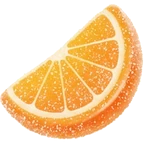
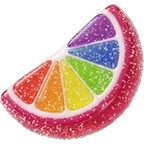
v368: Candy Climb retired (it doubled the Sweet Pass; unclaimed prizes are given once), Sweet Pass on the map and opening by itself after a win that reaches a step; colourful marmalade slice candy

diff --git a/sw.js b/sw.js
@@ -1,5 +1,5 @@
 /* Candoku service worker: cache the app shell so it works offline. Bump VERSION on each release. */
-const VERSION = 'candoku-v367';
+const VERSION = 'candoku-v368';
 const FILES = ['./', 'index.html', 'style.css', 'engine.js', 'hints.js', 'boardworker.js', 'seeds.js', 'sound.js', 'music.js', 'voice.js', 'app.js', 'manifest.webmanifest', 'icon-192.png', 'icon-180.png', 'icon-192.png', 'icon-512.png', 'icon-maskable-512.png', 'icons/lollipop.png', 'icons/candy.png', 'icons/chocolate_bar.png', 'icons/doughnut.png', 'icons/cupcake.png', 'icons/cookie.png', 'icons/cherries.png', 'icons/soft_ice_cream.png', 'icons/shortcake.png', 'icons/dango.png', 'art/bg_0.jpg', 'art/bg_1.jpg', 'art/bg_2.jpg', 'art/bg_3.jpg', 'art/bg_4.jpg', 'art/bg_5.jpg', 'art/bg_6.jpg', 'art/bg_7.jpg', 'art/bg_8.jpg', 'art/ic_undo.webp', 'art/ic_hint.webp', 'art/ic_wand.webp', 'art/ic_maybe.webp', 'art/ic_restart.webp', 'art/ic_coin.webp', 'art/ic_chest.webp', 'art/ic_wheel.webp', 'art/ic_games.webp', 'art/nav_gifts.webp', 'art/nav_quests.webp', 'art/nav_home.webp', 'art/nav_shop.webp', 'art/nav_rank.webp', 'art/ic_heart.webp', 'art/ic_heart_off.webp', 'art/cd_lollipop.webp', 'art/cd_candy.webp', 'art/cd_chocolate_bar.webp', 'art/cd_doughnut.webp', 'art/cd_cupcake.webp', 'art/cd_cookie.webp', 'art/cd_cherries.webp', 'art/cd_soft_ice_cream.webp', 'art/cd_shortcake.webp', 'art/cd_dango.webp', 'art/tool_undo.webp', 'art/tool_hint.webp', 'art/tool_wand.webp', 'art/tool_maybe.webp', 'art/tool_maybe_green.webp', 'art/tool_restart.webp', 'art/ribbon.webp', 'art/ribbon_teal.webp', 'art/panel_blue.webp', 'art/ic_shield.webp', 'art/ic_double.webp', 'art/ic_sweeper.webp', 'art/ic_lens.webp', 'audio/voice/reward1.mp3', 'audio/voice/reward2.mp3', 'audio/voice/reward3.mp3', 'audio/voice/bigreward.mp3', 'audio/voice/wandget.mp3', 'art/gumi_pirate.webp', 'art/gumi_astronaut.webp', 'art/gumi_chef.webp', 'art/gumi_ninja.webp', 'art/btn_green.webp', 'art/btn_orange.webp', 'art/btn_blue.webp', 'art/logo.webp', 'art/ribbon_0.webp', 'art/ribbon_1.webp', 'art/ribbon_2.webp', 'art/ribbon_3.webp', 'art/ribbon_4.webp', 'art/ribbon_5.webp', 'art/ribbon_6.webp', 'art/ribbon_7.webp', 'art/ribbon_8.webp', 'art/ribbon_9.webp', 'art/gumi_win.webp', 'art/gumi_jump.webp', 'art/shoot_bg.jpg', 'art/cart_bg2.jpg', 'art/shoot_cannon.webp', 'art/shoot_ball.webp', 'art/shoot_ball_y.webp', 'art/shoot_ball_b.webp', 'art/shoot_ball_g.webp', 'art/shoot_hole.webp', 'art/cart_rock.webp', 'art/cart_bear2.webp', 'art/cart_rival2.webp',  'art/hoop_machine.jpg', 'art/hoop_ring.webp', 'art/hoop_ball_g.webp', 'art/hoop_ball_r.webp', 'art/climb_plat.webp', 'art/ev_climb.webp', 'art/ui_btn_icon.webp', 'art/ui_pill_dark.webp', 'art/ui_pill_cream.webp', 'art/node_blue.webp', 'art/node_hard.webp', 'art/node_vhard.webp', 'art/node_extreme.webp', 'art/node_lock.webp', 'art/ev_shooter.webp', 'art/ev_hoop.webp', 'art/ev_cart.webp', 'art/ev_pass.webp', 'art/ev_rush.webp', 'art/ev_memory.webp', 'art/ev_toss.webp', 'art/ev_odd.webp', 'art/ev_jars.webp',  'art/3d_qcard.webp', 'art/3d_chest_small.webp', 'art/3d_chest_med.webp', 'art/3d_chest_large.webp', 'art/gumi_pirate_stand.webp', 'art/gumi_pirate_win.webp', 'art/gumi_cowboy_stand.webp', 'art/gumi_cowboy_win.webp', 'art/gumi_wizard_stand.webp', 'art/gumi_wizard_win.webp', 'art/gumi_king_stand.webp', 'art/gumi_king_win.webp', 'art/gumi_ninja_stand.webp', 'art/gumi_ninja_win.webp',  'art/gumi_chef_stand.webp', 'art/gumi_chef_win.webp', 'art/gumi_fire_stand.webp', 'art/gumi_fire_win.webp', 'art/gumi_blink.webp', 'art/gumi_sad.webp', 'art/tool_restart_red.webp', 'art/wheel_ring.webp', 'art/wheel_hub.webp', 'art/wheel_pointer.webp', 'art/tool_sweeper.webp', 'art/tool_lens.webp', 'art/gumi.webp', 'art/gumi_hero.webp', 'art/star_gold.webp', 'art/star_grey.webp', 'art/gumi_blue.webp', 'art/gumi_red.webp', 'art/panel.webp', 'audio/sfx/n0.mp3', 'audio/sfx/n1.mp3', 'audio/sfx/n2.mp3', 'audio/sfx/n3.mp3', 'audio/sfx/n4.mp3', 'audio/sfx/n5.mp3', 'audio/sfx/n6.mp3', 'audio/sfx/n7.mp3', 'audio/sfx/n8.mp3', 'audio/sfx/fanfare.mp3', 'audio/sfx/stars.mp3', 'audio/sfx/cake_layer.mp3', 'audio/sfx/cake_top.mp3', 'audio/sfx/cake_fly.mp3', 'audio/music/w4.mp3', 'audio/music/w5.mp3', 'audio/music/w6.mp3', 'audio/music/w7.mp3', 'audio/music/w8.mp3', 'audio/music/menu.mp3', 'audio/music/w0.mp3', 'audio/music/w1.mp3', 'audio/music/w2.mp3', 'audio/music/w3.mp3', 'audio/voice/close.mp3', 'audio/voice/delicious.mp3', 'audio/voice/divine.mp3', 'audio/voice/first.mp3', 'audio/voice/go.mp3', 'audio/voice/hard.mp3', 'audio/voice/intro1.mp3', 'audio/voice/intro2.mp3', 'audio/voice/intro3.mp3', 'audio/voice/letsplay.mp3', 'audio/voice/lose.mp3', 'audio/voice/nice.mp3', 'audio/voice/perfect.mp3', 'audio/voice/ready.mp3', 'audio/voice/sugartastic.mp3', 'audio/voice/tasty.mp3', 'audio/voice/veryhard.mp3', 'audio/voice/extremehard.mp3', 'audio/voice/verytasty.mp3', 'audio/voice/welcome.mp3', 'audio/voice/yummy.mp3', 'audio/voice/es/mmmsweet.mp3', 'audio/voice/es/sugarrush.mp3', 'audio/voice/es/candylicious.mp3', 'audio/voice/es/sosweet.mp3', 'audio/voice/es/bontastic.mp3', 'audio/voice/es/treattastic.mp3', 'audio/voice/es/whatatreat.mp3', 'audio/voice/es/f/first.mp3', 'audio/voice/es/f/yummy.mp3', 'audio/voice/es/f/tasty.mp3', 'audio/voice/es/f/nice.mp3', 'audio/voice/es/f/delicious.mp3', 'audio/voice/es/f/verytasty.mp3', 'audio/voice/es/f/mmmsweet.mp3', 'audio/voice/es/f/sugarrush.mp3', 'audio/voice/es/f/candylicious.mp3', 'audio/voice/es/f/sosweet.mp3', 'audio/voice/es/f/bontastic.mp3', 'audio/voice/es/f/treattastic.mp3', 'audio/voice/es/f/whatatreat.mp3', 'audio/voice/f/first.mp3', 'audio/voice/f/yummy.mp3', 'audio/voice/f/tasty.mp3', 'audio/voice/f/nice.mp3', 'audio/voice/f/delicious.mp3', 'audio/voice/f/verytasty.mp3', 'audio/voice/f/mmmsweet.mp3', 'audio/voice/f/sugarrush.mp3', 'audio/voice/f/candylicious.mp3', 'audio/voice/f/sosweet.mp3', 'audio/voice/f/bontastic.mp3', 'audio/voice/f/treattastic.mp3', 'audio/voice/f/whatatreat.mp3', 'audio/voice/whatatreat.mp3', 'audio/voice/mmmsweet.mp3', 'audio/voice/sugarrush.mp3', 'audio/voice/candylicious.mp3', 'audio/voice/sosweet.mp3', 'audio/voice/gumtastic.mp3', 'audio/voice/bontastic.mp3', 'audio/voice/treattastic.mp3', 'art/3d_cake_1.webp', 'art/3d_cake_2.webp', 'art/3d_cake_3.webp', 'art/cake_stage_1.webp', 'art/cake_stage_2.webp', 'art/cake_stage_3.webp', 'art/ic_sugarstar.webp', 'art/ic_bomb.webp', 'art/ic_gift_a.webp', 'art/ic_gift_b.webp', 'art/ic_gift_c.webp', 'art/ic_pass_frame.webp', 'art/node_super.webp', 'art/sw_1.webp', 'art/sw_2.webp', 'art/sw_3.webp', 'art/sw_4.webp', 'art/sw_5.webp', 'art/sw_6.webp', 'art/sw_7.webp', 'art/sw_8.webp', 'art/sw_9.webp', 'art/sw_10.webp', 'art/sw_11.webp', 'art/sw_12.webp', 'art/sw_13.webp', 'art/sw_14.webp', 'art/sw_15.webp', 'art/sw_16.webp', 'art/sw_17.webp', 'art/sw_18.webp', 'art/sw_19.webp', 'art/sw_20.webp', 'art/sw_21.webp', 'art/ic_ice.webp', 'art/ic_flame.webp', 'art/ic_pack.webp', 'art/ic_freeze.webp', 'art/ev_tower.webp', 'art/ev_race.webp', 'art/ev_album.webp', 'art/ev_jar.webp', 'art/ev_advent.webp', 'art/ic_car.webp', 'art/ic_rocket.webp', 'art/tool_car.webp', 'art/tool_rocket.webp', 'audio/voice/z0.mp3', 'audio/voice/z1.mp3', 'audio/voice/z2.mp3', 'audio/voice/z3.mp3', 'audio/voice/z4.mp3', 'audio/voice/z5.mp3', 'audio/voice/z6.mp3', 'audio/voice/z7.mp3', 'audio/voice/z8.mp3'];
 const CORE = ['./', 'index.html', 'manifest.webmanifest', 'art/splash_4k.jpg', 'art/logo_bonbox_hd.webp'];
 self.addEventListener('install', (e) => {

diff --git a/index.html b/index.html
@@ -14,7 +14,7 @@
 <link rel="apple-touch-icon" href="icon-180.png?v=85">
 <link rel="preconnect" href="https://fonts.googleapis.com"><link rel="preconnect" href="https://fonts.gstatic.com" crossorigin>
 <link rel="stylesheet" href="https://fonts.googleapis.com/css2?family=Nunito:wght@700;800;900&display=swap" media="print" onload="this.media='all'">
-<link rel="stylesheet" href="style.css?v=367">
+<link rel="stylesheet" href="style.css?v=368">
 <link rel="preload" as="image" href="art/splash_4k.jpg?b2"><link rel="preload" as="image" href="art/logo_bonbox_hd.webp">
 <style>
[1 lines of base64/hex data omitted]
@@ -174,7 +174,7 @@ setTimeout(function(){if(window.__bonboxReady)return;var s=document.getElementBy
       <button class="med" id="medDaily" type="button"><span class="disc"><svg><use href="#c3"/></svg></span><span class="tag" id="medDailyTag">⏱ Play</span></button>
       <button class="med" id="medWheel" type="button"><span class="disc"><img loading="lazy" decoding="async" class="" src="art/ic_wheel.webp" alt="" draggable="false"></span><span class="tag" id="medWheelTag">FREE</span></button>
       <button class="med fancy cake" id="medCake" type="button" aria-label="Gumi's Cake"><span class="disc"><span class="cakeico"><img class="cghost" decoding="async" src="art/cake_stage_3.webp?2" alt="" draggable="false"><img class="cfill" decoding="async" src="art/cake_stage_1.webp?2" alt="" draggable="false" hidden></span></span><span class="tag" id="medCakeTag">0/3</span></button>
-      <button class="med" id="medClimb" type="button" aria-label="Candy Climb"><span class="disc"><img decoding="async" src="art/ev_climb.webp" alt="" draggable="false"></span><span class="tag" id="medClimbTag">START</span></button>
+      <button class="med" id="medPass" type="button" aria-label="Sweet Pass"><span class="disc"><img decoding="async" src="art/ev_pass.webp" alt="" draggable="false"></span><span class="tag" id="medPassTag">0/30</span></button>
     </div>
     <div class="col r">
       <button class="med" id="medChest" type="button"><span class="disc"><img loading="lazy" decoding="async" class="" src="art/ic_chest.webp" alt="" draggable="false"></span><span class="tag" id="medChestTag">0/10</span></button>
@@ -182,7 +182,7 @@ setTimeout(function(){if(window.__bonboxReady)return;var s=document.getElementBy
       <button class="med fancy star" id="medStar" type="button" aria-label="Sugar Stars"><span class="disc"><img decoding="async" src="art/ic_sugarstar.webp" alt="" draggable="false"></span><span class="tag" id="medStarTag">0/10</span></button>
     </div>
   </div>
-  <div hidden><button class="med" id="medPass" type="button"><span class="disc emo">🎟</span><span class="tag" id="medPassTag">0/10</span></button><button class="med" id="medRush" type="button"><span class="disc emo">⚡</span><span class="tag" id="medRushTag">START</span></button><button class="med" id="medGames" type="button"><span class="disc"><img loading="lazy" decoding="async" class="" src="art/ic_games.webp" alt="" draggable="false"></span><span class="tag" id="medGamesTag">4/4</span></button></div>
+  <div hidden><button class="med" id="medClimb" type="button"><span class="disc emo">🧗</span><span class="tag" id="medClimbTag">START</span></button><button class="med" id="medRush" type="button"><span class="disc emo">⚡</span><span class="tag" id="medRushTag">START</span></button><button class="med" id="medGames" type="button"><span class="disc"><img loading="lazy" decoding="async" class="" src="art/ic_games.webp" alt="" draggable="false"></span><span class="tag" id="medGamesTag">4/4</span></button></div>
   <div class="map" id="map"></div>
 </main>
 
@@ -211,7 +211,7 @@ setTimeout(function(){if(window.__bonboxReady)return;var s=document.getElementBy
     <button class="btn" id="maybeBtn" hidden type="button" aria-pressed="false" aria-label="Maybe" title="Maybe"><img loading="lazy" decoding="async" class="tico" src="art/tool_maybe.webp" alt="" draggable="false"></button>
     <button class="btn" id="clearBtn" hidden type="button" aria-label="Restart" title="Restart"><img loading="lazy" decoding="async" class="tico" src="art/tool_restart_red.webp" alt="" draggable="false"></button>
   </div>
-  <p class="help">Tap: X (tap again to remove). Double tap: candy. Hold a square or use Maybe to mark a ? <span class="ver">v367</span></p>
+  <p class="help">Tap: X (tap again to remove). Double tap: candy. Hold a square or use Maybe to mark a ? <span class="ver">v368</span></p>
 </main>
 
 <!-- WIN -->
@@ -732,13 +732,13 @@ setTimeout(function(){if(window.__bonboxReady)return;var s=document.getElementBy
   <button type="button" id="navShop"><img loading="lazy" decoding="async" class="navico" src="art/nav_shop.webp" alt="" draggable="false"><span>Shop</span></button>
   <button type="button" id="navRank"><img loading="lazy" decoding="async" class="navico" src="art/nav_rank.webp" alt="" draggable="false"><span>Ranking</span></button>
 </nav>
-<script src="i18n.js?v=367"></script>
-<script src="engine.js?v=367"></script>
-<script src="hints.js?v=367"></script>
-<script src="seeds.js?v=367"></script>
-<script src="sound.js?v=367"></script>
-<script src="music.js?v=367"></script>
-<script src="voice.js?v=367"></script>
-<script src="app.js?v=367"></script>
+<script src="i18n.js?v=368"></script>
+<script src="engine.js?v=368"></script>
+<script src="hints.js?v=368"></script>
+<script src="seeds.js?v=368"></script>
+<script src="sound.js?v=368"></script>
+<script src="music.js?v=368"></script>
+<script src="voice.js?v=368"></script>
+<script src="app.js?v=368"></script>
 </body>
 </html>

diff --git a/app.js b/app.js
@@ -400,7 +400,7 @@
         document.body.classList.toggle('ov-open', anyOverlay());
         // closeAll() sets hidden on windows that are already closed: that is no change, so no sound (it played a closing swish on every opening)
         if (ov.hidden === was) return; was = ov.hidden;
-        if (ov.hidden && ov.id !== 'climb' && typeof climbPop === 'function') try { if (climb.moved > 0) climbPop(0); } catch (e) {}   // a window closed on the map: the bear's step up can show now
+        if (ov.hidden && ov.id !== 'pass' && typeof spPop === 'function') try { if (pass.moved > 0) spPop(0); } catch (e) {}   // a window closed on the map: the new Sweet Pass step can show now
         const now = performance.now(), card = ov.querySelector('.card');
         if (!ov.hidden) {
           // started with the Web Animations API: restarting the CSS classes forced the whole page to be measured twice on every window
@@ -2258,7 +2258,7 @@
     await transition(() => { renderHome(); show('home'); scrollToLevel(p ? p.from : level); });
     if (p) { await sleep(120); await hopTo(p.from, p.to); }
     if (cur && cur.done && cur.hearts > 0) setTimeout(notifMaybeAsk, 600);
-    if (climb.moved > 0 && climbOn()) climbPop(0);
+    if (pass.moved > 0) spPop(0);
   }
   /* ---------- "Enjoying Bonbox?": asked only at a happy moment (right after a win), a few times at most, never again once answered ---------- */
   const RATE_AT = [8, 25, 60, 120, 200];
@@ -2285,7 +2285,7 @@
     if (leaguePending) { leaguePending = false; openLeague(() => nextLevel()); return; }
     if (bonusPending) { bonusPending = false; startCart(() => nextLevel()); return; }
     $('win').hidden = true;
-    if (cur.meta.kind === 'level' && climb.moved > 0 && climbOn()) { await toMap(); return; }   // the bear went up a floor: the climb window shows it (opened by toMap)
+    if (cur.meta.kind === 'level' && pass.moved > 0) { await toMap(); return; }   // a new Sweet Pass step: its window shows it (opened by toMap)
     if (webGate() && cur.meta.kind === 'level' && cur.meta.level >= WEB_FREE) { await toMap(); openWebGate(); return; }   // the last free level on the web
     if (cur.meta.kind !== 'level' || cur.meta.level >= LAST_LEVEL || (cur.meta.level === STORY_END && !store.get('seenEnd', false))) { await toMap(); maybeEnding(); return; }
     const from = cur.meta.level, to = level; pendingHop = null;
@@ -3252,11 +3252,14 @@
   // a level won: points by the multiplier, then the multiplier grows. Returns the points given (for the win card).
   function spWin() {
     spFresh(); if (pass.step >= SP_STEPS) { pass.ms = Math.min(SP_MULT.length - 1, (pass.ms || 0) + 1); store.set('spass', pass); return 0; }
-    const g = spMult(); pass.pts += g;
+    const g = spMult(), before = pass.step; pass.pts += g;
     while (pass.step < SP_STEPS && pass.pts >= spNeed(pass.step)) { pass.pts -= spNeed(pass.step); pass.step++; }
     if (pass.step >= SP_STEPS) pass.pts = 0;
+    if (pass.step > before) pass.moved = (pass.moved || 0) + pass.step - before;
     pass.ms = Math.min(SP_MULT.length - 1, (pass.ms || 0) + 1); store.set('spass', pass); updateSides(); return g;
   }
+  // after a win that opened a step, the pass opens on the map by itself (as soon as nothing else is showing) with the new prize ready to claim
+  function spPop(n) { setTimeout(() => { if (!(pass.moved > 0) || $('home').hidden) return; if (anyOverlay() || !$('intro').hidden) { if (n < 25) spPop(n + 1); return; } pass.moved = 0; store.set('spass', pass); openPass(); }, n ? 400 : 600); }
   function spLose() { if (pass.ms) { cur.spDrop = pass.ms; pass.ms = 0; store.set('spass', pass); } }
   function spRevive() { if (cur.spDrop) { pass.ms = cur.spDrop; cur.spDrop = 0; store.set('spass', pass); } }
   function passAdvance() {}   // the old Candy Pass hook (flawless wins only): the Sweet Pass counts every win in spWin()
@@ -3266,7 +3269,7 @@
     const p = giftOpen(P, btn); giveReward(p, gold ? 'Sweet Pass!' : P.gift ? 'Surprise box!' : 'Free prize!', gold || i === SP_STEPS - 1);
     renderPass(); updateSides();
   }
-  function openPass() { S.unlock(); S.tap(); closeAll(); spFresh(); $('pass').hidden = false; renderPass(true); }
+  function openPass() { S.unlock(); S.tap(); closeAll(); spFresh(); if (pass.moved) { pass.moved = 0; store.set('spass', pass); } $('pass').hidden = false; renderPass(true); }
   // one prize tile: big icons with their numbers (timed ones carry an infinity badge), the exclusive frame as a swatch
   function spTile(P, gold, i) {
     const got = (gold ? pass.gcl : pass.cl)[i], reached = i < pass.step, locked = gold && !pass.gold, ks = Object.keys(P).filter((k) => P[k] && (PICO[k] || k === 'frame'));
@@ -3291,7 +3294,8 @@
     list.innerHTML = h;
     list.querySelectorAll('.sp-claim').forEach((b) => { b.onclick = () => { S.tap(); spClaim(+b.dataset.i, b.dataset.g === '1', b); }; });
     $('passInfo').textContent = pass.step >= SP_STEPS ? 'Season complete! A new Sweet Pass starts next month.' : 'Win levels in a row to grow the multiplier!';
-    if (scroll) { const at = list.querySelector('.sp-bar') || list.querySelector('.sp-row.now'); if (at) setTimeout(() => { list.scrollTop = Math.max(0, at.offsetTop - list.clientHeight * 0.45); }, 30); }
+    // the newest step reached (with its Claim) in the middle, the progress bar just under it
+    if (scroll) { const at = list.querySelector('.sp-row.now') || list.querySelector('.sp-bar'); if (at) setTimeout(() => { list.scrollTop = Math.max(0, at.offsetTop - list.offsetTop - list.clientHeight * 0.3); }, 30); }
   }
   setInterval(() => { if (!$('pass').hidden) $('spTime').textContent = '⏱ ' + spLeftTxt(); }, 30000);
 
@@ -3449,6 +3453,11 @@
   }
   // after a win that lifted the bear, the climb window opens on the map as soon as nothing else is showing (league, rating, a prize card...)
   function climbPop(n) { setTimeout(() => { if (!(climb.moved > 0 && climbOn()) || $('home').hidden) return; if (anyOverlay() || !$('intro').hidden) { if (n < 25) climbPop(n + 1); return; } openClimb(); }, n ? 400 : 600); }
+  // Candy Climb is retired (2026-11-21, it doubled the Sweet Pass): whoever was climbing gets every prize reached and not yet claimed, once
+  function climbRetire() { if (document.getElementById('splash') || anyOverlay()) { setTimeout(climbRetire, 1500); return; } try { if (!climb.start && !climbClaim()) return; let p = {}; CLIMB.forEach((x, i) => { if (i < climb.step && !climb.cl[i]) p = mergePrize(p, x); });
+    climb = { start: 0, step: 0, cl: [], day: climb.day || '' }; store.set('climb', climb);
+    if (Object.keys(p).length) { p = giftOpen(p); giveReward(p, 'Candy Climb prizes!', true); } updateSides(); } catch (e) {} }
+  setTimeout(climbRetire, 4000);
   function openClimb() { S.unlock(); S.tap(); closeAll(); $('climb').hidden = false; renderClimb(); }
 
   /* ---------- Sour Storm: every few days the Baron attacks for 24 hours; each level you win is a hit on him ---------- */

diff --git a/i18n.js b/i18n.js
@@ -234,6 +234,7 @@
   };
   // keep playing (2026-11-21)
   Object.assign(D, {
+    'Candy Climb prizes!': '¡Premios de la Escalada dulce!',
     '🔥 Super Hard': '🔥 Súper difícil', 'SUPER HARD': 'SÚPER DIFÍCIL', '🔥 Super Hard level!': '🔥 ¡Nivel súper difícil!', 'Super Hard beaten!': '¡Venciste un nivel súper difícil!',
     'One of the hardest boards in the game, and': 'Uno de los tableros más difíciles del juego, y', 'only 2 hearts': 'solo 2 corazones',
     'Use your helpers! Win it for a big prize.': '¡Usa tus ayudas! Gánalo y llévate un gran premio.',
